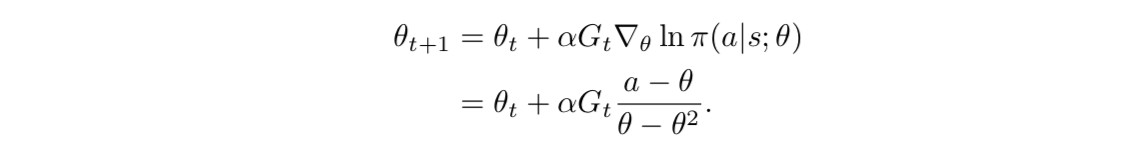
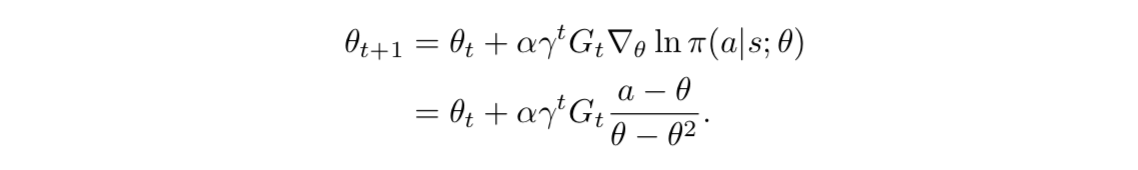
PG w/ baseline implemented

Changed region(s): [[0.2768, 0.1622, 0.7074, 0.3514], [0.3691, 0.4595, 0.6459, 0.9189]]

diff --git a/short_corridor.py b/short_corridor.py
@@ -9,17 +9,18 @@ import sys
 ########### --- initialisation --- ###########
 steps, tau, p_history, pbase_history, staff = [], [], [], [], {}
 
-staff['agent'] = 'basel'
-#staff['agent'] = 'reinf'
+agents = ['reinforcement', 'baseline']
 
-staff['ini_probability'] = 0.55 #np.random.rand()
-staff['num_episodes'] = int(1e5)
+staff['agent'] = agents[1]
+
+staff['ini_probability'] = np.random.rand()
+staff['num_episodes'] = int(5e3)
 staff['batch_size'] = 1
-staff['discount_factor'] = .9
-staff['learning_rate'] = 1e-6
+staff['discount_factor'] = .99
+staff['learning_rate'] = 1e-5
 staff['n_mean'] = int(staff['num_episodes']/10)
-if staff['agent'] == 'basel':
-    w = - np.random.rand()
+if staff['agent'] == 'baseline':
+    w = -4.9
     staff['alpha_base'] = 1e-6
 
 p = staff['ini_probability']
@@ -36,9 +37,9 @@ for i in range(staff['num_episodes']):
 
     if ((i+1) % staff['batch_size']) == 0:
         for k in range(staff['batch_size']):
-            if staff['agent'] == 'reinf':
+            if staff['agent'] == 'reinforcement':
                 p = training.REINFORCEMENT(p, tau[k])
-            elif staff['agent'] == 'basel':
+            elif staff['agent'] == 'baseline':
                 p, w = training.PG_baseline(p, w, tau[k])
         tau = []
     if p > 1 or p < 0:

diff --git a/inputoutput.py b/inputoutput.py
@@ -14,15 +14,16 @@ def print_staff(staff, p_history, steps):
     Print parameter, initial values and results to console.
     """
     print(25*"o-" + "o\n")
-    print("  Initial Probability:\t" + str(staff['ini_probability']))
-    print("  Discount Factor:\t" + str(staff['discount_factor']))
-    print("  Batch Size:\t\t" + str(staff['batch_size']))
-    print("  Number of Episodes:\t" + str(staff['num_episodes']))
+    print("  Agent:\t\t\t" + str(staff['agent']))
+    print("  Initial Probability:\t\t" + str(staff['ini_probability']))
+    print("  Discount Factor:\t\t" + str(staff['discount_factor']))
+    print("  Batch Size:\t\t\t" + str(staff['batch_size']))
+    print("  Number of Episodes:\t\t" + str(staff['num_episodes']))
     print("  Learning Rate:\t\t" + str(staff['learning_rate']))
 
     print("  final mean probability:\t" +
           str(np.mean(p_history[-staff['n_mean']:])))
-    print("  final mean reward:\t" +
+    print("  final mean reward:\t\t" +
           str(-np.mean(np.array(steps)[-staff['n_mean']:])))
     print("\n" + 25*"o-" + "o")
     print("\n")

diff --git a/trainer.py b/trainer.py
@@ -11,7 +11,7 @@ class Trainer:
     def __init__(self, staff):
         self.alpha = staff['learning_rate']
         self.gamma = staff['discount_factor']
-        if staff['agent'] == 'basel':
+        if staff['agent'] == 'baseline':
             self.alphabase = staff['alpha_base']
         print("\n learning...")
 
@@ -71,7 +71,7 @@ class Trainer:
         delta = estG - self.value(base)
 
         for t in range(T):
-            base += self.alphabase * delta[t] * self.value(base)
+            base += self.alphabase * delta[t] * self.dval(base)
             prob += self.alpha * self.gamma**t * delta[t] * self.gradient(prob, A[t])
 
         return prob, base
